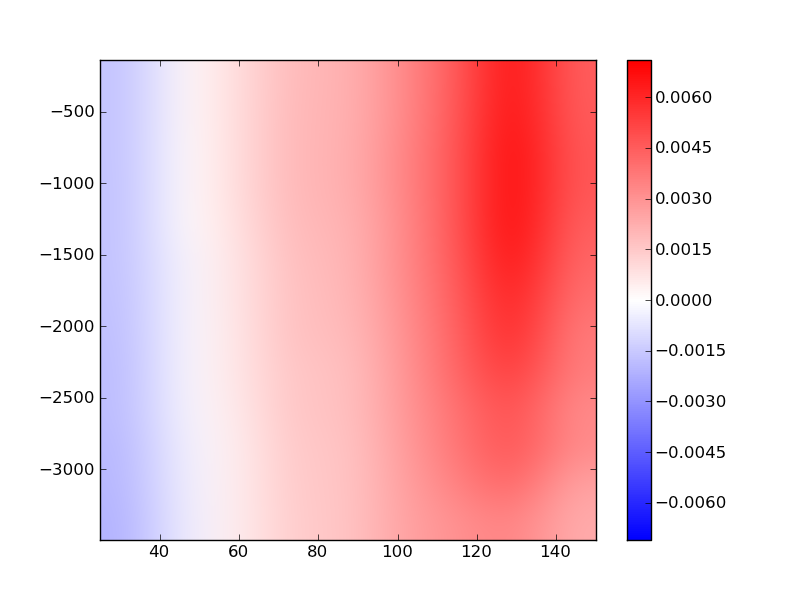
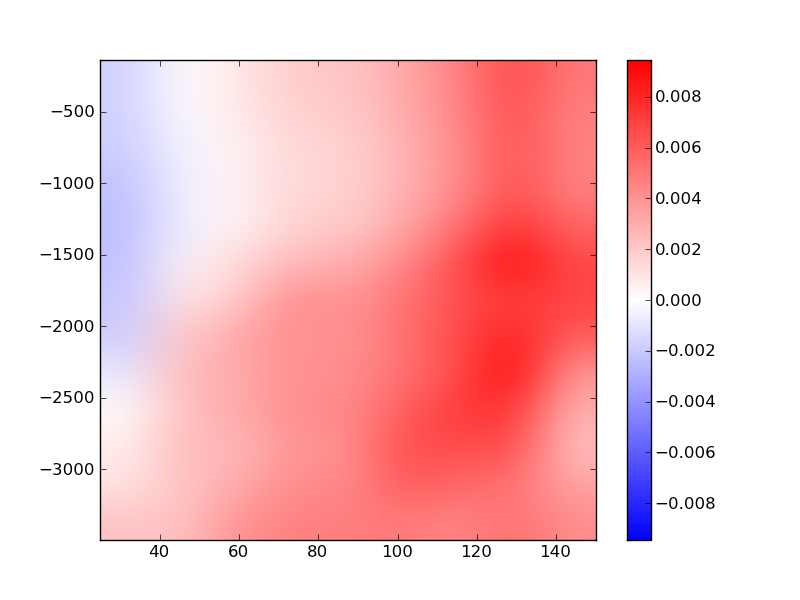
make plot_nbin script work without including truth

diff --git a/Scripts/plot_nbin.py b/Scripts/plot_nbin.py
@@ -3,13 +3,26 @@ import numpy as np
 import os
 import subprocess
 from scipy.optimize import curve_fit
+import sys
 
 def shear_model(x, m, a, c):
     # x should be 3 x N, where 0=gtrue, 1=epsf, 2=const
     return m*x[0,:] + a*x[1,:] + c*x[2,:]
     
+if len(sys.argv) != 1:
+    # This will be either 0 for False or 1 for True.
+    # So if 0 then it won't use a truth table, but you should fill in the true mean shear below.
+    # If 1 (or left blank) then it will use a truth table, given as a filename below.
+    use_truth = bool(int(sys.argv[1]))
+else:
+    use_truth = True
 
-truthfile = 'cgc-truthtable.txt'
+# Truth info: either a table, or mean shears across the field
+if use_truth:
+    truthfile = 'cgc-truthtable.txt'
+else:
+    true_mean_g1 = -0.00069750141117027025
+    true_mean_g2 = 0.002724380587579428
 
 n_bins = [25, 50, 60, 70, 75, 85, 100, 125, 150]
 percentile_vals = [0.5, 1., 2., 3., 4., 5., 6., 8., 10., 12., 14., 16., 20.]
@@ -23,18 +36,19 @@ mean_g1 = np.zeros((len(n_bins), len(percentile_vals)))
 mean_g2 = np.zeros((len(n_bins), len(percentile_vals)))
 sig_g1 = np.zeros((len(n_bins), len(percentile_vals)))
 sig_g2 = np.zeros((len(n_bins), len(percentile_vals)))
-m1 = np.zeros((len(n_bins), len(percentile_vals)))
-m2 = np.zeros((len(n_bins), len(percentile_vals)))
-sig_m1 = np.zeros((len(n_bins), len(percentile_vals)))
-sig_m2 = np.zeros((len(n_bins), len(percentile_vals)))
-a1 = np.zeros((len(n_bins), len(percentile_vals)))
-a2 = np.zeros((len(n_bins), len(percentile_vals)))
-sig_a1 = np.zeros((len(n_bins), len(percentile_vals)))
-sig_a2 = np.zeros((len(n_bins), len(percentile_vals)))
-c1 = np.zeros((len(n_bins), len(percentile_vals)))
-c2 = np.zeros((len(n_bins), len(percentile_vals)))
-sig_c1 = np.zeros((len(n_bins), len(percentile_vals)))
-sig_c2 = np.zeros((len(n_bins), len(percentile_vals)))
+if use_truth:
+    m1 = np.zeros((len(n_bins), len(percentile_vals)))
+    m2 = np.zeros((len(n_bins), len(percentile_vals)))
+    sig_m1 = np.zeros((len(n_bins), len(percentile_vals)))
+    sig_m2 = np.zeros((len(n_bins), len(percentile_vals)))
+    a1 = np.zeros((len(n_bins), len(percentile_vals)))
+    a2 = np.zeros((len(n_bins), len(percentile_vals)))
+    sig_a1 = np.zeros((len(n_bins), len(percentile_vals)))
+    sig_a2 = np.zeros((len(n_bins), len(percentile_vals)))
+    c1 = np.zeros((len(n_bins), len(percentile_vals)))
+    c2 = np.zeros((len(n_bins), len(percentile_vals)))
+    sig_c1 = np.zeros((len(n_bins), len(percentile_vals)))
+    sig_c2 = np.zeros((len(n_bins), len(percentile_vals)))
 
 for n_indx, n in enumerate(n_bins):
     # construct filename
@@ -70,13 +84,14 @@ for n_indx, n in enumerate(n_bins):
             logl_cutoffs.append(np.percentile(logl, perc))
 
     # read in truth table
-    dat = np.loadtxt(truthfile).transpose()
-    field_id_truth = dat[0,:]
-    g1_true = dat[1,:]
-    g2_true = dat[2,:]
+    if use_truth:
+        dat = np.loadtxt(truthfile).transpose()
+        field_id_truth = dat[0,:]
+        g1_true = dat[1,:]
+        g2_true = dat[2,:]
 
-    if not np.array_equal(field_id, field_id_truth):
-        raise RuntimeError('Subfield indices do not match!')
+        if not np.array_equal(field_id, field_id_truth):
+            raise RuntimeError('Subfield indices do not match!')
 
     for logl_indx, logl_cut in enumerate(logl_cutoffs):
         print "Log likelihood cutoff: ",logl_cut
@@ -84,15 +99,17 @@ for n_indx, n in enumerate(n_bins):
         use_g1_opt = g1_opt[to_save_1]
         use_g1_var = g1_var[to_save_1]
         use_psf_e1 = psf_e1[to_save_1]
-        use_g1_true = g1_true[to_save_1]
+        if use_truth:
+            use_g1_true = g1_true[to_save_1]
 
         to_save_2 = logl2 > logl_cut
         use_g2_opt = g2_opt[to_save_2]
         use_g2_var = g2_var[to_save_2]
         use_psf_e2 = psf_e2[to_save_2]
-        use_g2_true = g2_true[to_save_2]
+        if use_truth:
+            use_g2_true = g2_true[to_save_2]
 
-        print "Using ",len(use_g1_true),' and ',len(use_g2_true),' for g1 and g2'
+        print "Using ",len(use_g1_opt),' and ',len(use_g2_opt),' for g1 and g2'
 
         # compute and store <gamma>
         mean_g1[n_indx][logl_indx]=np.mean(use_g1_opt)
@@ -102,28 +119,29 @@ for n_indx, n in enumerate(n_bins):
         sig_g1[n_indx][logl_indx]=np.mean(np.sqrt(use_g1_var))
         sig_g2[n_indx][logl_indx]=np.mean(np.sqrt(use_g2_var))
 
-        # compute (roughly) and store m, a
-        # Our equation is g_obs - g_true = m*g_true + a*e_psf
-        # Our "A" matrix that lstsq wants should be like this:
-        A = np.column_stack([use_g1_true, use_psf_e1, np.ones_like(use_psf_e1)]).transpose()
-        # And the B vector is just the LHS
-        B = use_g1_opt - use_g1_true
-        ret_val, covar_1 = curve_fit(shear_model, A, B, sigma=np.sqrt(use_g1_var))
-        m1[n_indx][logl_indx]=ret_val[0]
-        a1[n_indx][logl_indx]=ret_val[1]
-        c1[n_indx][logl_indx]=ret_val[2]
-        sig_m1[n_indx][logl_indx]=np.sqrt(covar_1[0][0])
-        sig_a1[n_indx][logl_indx]=np.sqrt(covar_1[1][1])
-        sig_c1[n_indx][logl_indx]=np.sqrt(covar_1[2][2])
-        A = np.column_stack([use_g2_true, use_psf_e2, np.ones_like(use_psf_e2)]).transpose()
-        B = use_g2_opt - use_g2_true
-        ret_val, covar_2 = curve_fit(shear_model, A, B, sigma=np.sqrt(use_g2_var))
-        m2[n_indx][logl_indx]=ret_val[0]
-        a2[n_indx][logl_indx]=ret_val[1]
-        c2[n_indx][logl_indx]=ret_val[2]
-        sig_m2[n_indx][logl_indx]=np.sqrt(covar_2[0][0])
-        sig_a2[n_indx][logl_indx]=np.sqrt(covar_2[1][1])
-        sig_c2[n_indx][logl_indx]=np.sqrt(covar_2[2][2])
+        if use_truth:
+            # compute (roughly) and store m, a
+            # Our equation is g_obs - g_true = m*g_true + a*e_psf
+            # Our "A" matrix that lstsq wants should be like this:
+            A = np.column_stack([use_g1_true, use_psf_e1, np.ones_like(use_psf_e1)]).transpose()
+            # And the B vector is just the LHS
+            B = use_g1_opt - use_g1_true
+            ret_val, covar_1 = curve_fit(shear_model, A, B, sigma=np.sqrt(use_g1_var))
+            m1[n_indx][logl_indx]=ret_val[0]
+            a1[n_indx][logl_indx]=ret_val[1]
+            c1[n_indx][logl_indx]=ret_val[2]
+            sig_m1[n_indx][logl_indx]=np.sqrt(covar_1[0][0])
+            sig_a1[n_indx][logl_indx]=np.sqrt(covar_1[1][1])
+            sig_c1[n_indx][logl_indx]=np.sqrt(covar_1[2][2])
+            A = np.column_stack([use_g2_true, use_psf_e2, np.ones_like(use_psf_e2)]).transpose()
+            B = use_g2_opt - use_g2_true
+            ret_val, covar_2 = curve_fit(shear_model, A, B, sigma=np.sqrt(use_g2_var))
+            m2[n_indx][logl_indx]=ret_val[0]
+            a2[n_indx][logl_indx]=ret_val[1]
+            c2[n_indx][logl_indx]=ret_val[2]
+            sig_m2[n_indx][logl_indx]=np.sqrt(covar_2[0][0])
+            sig_a2[n_indx][logl_indx]=np.sqrt(covar_2[1][1])
+            sig_c2[n_indx][logl_indx]=np.sqrt(covar_2[2][2])
 
 if 0:
     # Plot m vs. n_bins
@@ -176,41 +194,57 @@ if 0:
     plt.savefig(outpref+mc_type+'.png')
 
 else:
-    # make 2d plot of <shear residual> vs. n, logL
-    fig = plt.figure()
-    vmax = max(np.max(c1), -np.min(c1))
-    plt.imshow(c1.transpose(), extent=(min(n_bins), max(n_bins), min(logl_cutoffs), max(logl_cutoffs)),
-               interpolation='bicubic', aspect='auto', vmin=-vmax, vmax=vmax, cmap=plt.cm.bwr)
-    plt.colorbar()
-    plt.savefig('mean_g1_2d.png')
-    fig = plt.figure()
-    plt.imshow(c2.transpose(), extent=(min(n_bins), max(n_bins), min(logl_cutoffs), max(logl_cutoffs)),
-               interpolation='bicubic', aspect='auto', vmin=-vmax, vmax=vmax, cmap=plt.cm.bwr)
-    plt.colorbar()
-    plt.savefig('mean_g2_2d.png')
+    if use_truth:
+        # make 2d plot of <shear residual> vs. n, logL
+        fig = plt.figure()
+        vmax = max(np.max(c1), -np.min(c1))
+        plt.imshow(c1.transpose(), extent=(min(n_bins), max(n_bins), min(logl_cutoffs), max(logl_cutoffs)),
+                   interpolation='bicubic', aspect='auto', vmin=-vmax, vmax=vmax, cmap=plt.cm.bwr)
+        plt.colorbar()
+        plt.savefig('mean_c1_2d.png')
+        fig = plt.figure()
+        plt.imshow(c2.transpose(), extent=(min(n_bins), max(n_bins), min(logl_cutoffs), max(logl_cutoffs)),
+                   interpolation='bicubic', aspect='auto', vmin=-vmax, vmax=vmax, cmap=plt.cm.bwr)
+        plt.colorbar()
+        plt.savefig('mean_c2_2d.png')
 
-    # make 2d plot of m vs. n, logL
-    fig = plt.figure()
-    vmax = max(np.max(m1), -np.min(m1))
-    plt.imshow(m1.transpose(), extent=(min(n_bins), max(n_bins), min(logl_cutoffs), max(logl_cutoffs)),
-               interpolation='bicubic', aspect='auto', vmin=-vmax, vmax=vmax, cmap=plt.cm.bwr)
-    plt.colorbar()
-    plt.savefig('mean_m1_2d.png')
-    fig = plt.figure()
-    plt.imshow(m2.transpose(), extent=(min(n_bins), max(n_bins), min(logl_cutoffs), max(logl_cutoffs)),
-               interpolation='bicubic', aspect='auto', vmin=-vmax, vmax=vmax, cmap=plt.cm.bwr)
-    plt.colorbar()
-    plt.savefig('mean_m2_2d.png')
+        # make 2d plot of m vs. n, logL
+        fig = plt.figure()
+        vmax = max(np.max(m1), -np.min(m1))
+        plt.imshow(m1.transpose(), extent=(min(n_bins), max(n_bins), min(logl_cutoffs), max(logl_cutoffs)),
+                   interpolation='bicubic', aspect='auto', vmin=-vmax, vmax=vmax, cmap=plt.cm.bwr)
+        plt.colorbar()
+        plt.savefig('mean_m1_2d.png')
+        fig = plt.figure()
+        plt.imshow(m2.transpose(), extent=(min(n_bins), max(n_bins), min(logl_cutoffs), max(logl_cutoffs)),
+                   interpolation='bicubic', aspect='auto', vmin=-vmax, vmax=vmax, cmap=plt.cm.bwr)
+        plt.colorbar()
+        plt.savefig('mean_m2_2d.png')
 
-    # make 2d plot of a vs. n, logL
-    fig = plt.figure()
-    vmax = max(np.max(m1), -np.min(m1))
-    plt.imshow(a1.transpose(), extent=(min(n_bins), max(n_bins), min(logl_cutoffs), max(logl_cutoffs)),
-               interpolation='bicubic', aspect='auto', vmin=-vmax, vmax=vmax, cmap=plt.cm.bwr)
-    plt.colorbar()
-    plt.savefig('mean_a1_2d.png')
-    fig = plt.figure()
-    plt.imshow(a2.transpose(), extent=(min(n_bins), max(n_bins), min(logl_cutoffs), max(logl_cutoffs)),
-               interpolation='bicubic', aspect='auto', vmin=-vmax, vmax=vmax, cmap=plt.cm.bwr)
-    plt.colorbar()
-    plt.savefig('mean_a2_2d.png')
+        # make 2d plot of a vs. n, logL
+        fig = plt.figure()
+        vmax = max(np.max(m1), -np.min(m1))
+        plt.imshow(a1.transpose(), extent=(min(n_bins), max(n_bins), min(logl_cutoffs), max(logl_cutoffs)),
+                   interpolation='bicubic', aspect='auto', vmin=-vmax, vmax=vmax, cmap=plt.cm.bwr)
+        plt.colorbar()
+        plt.savefig('mean_a1_2d.png')
+        fig = plt.figure()
+        plt.imshow(a2.transpose(), extent=(min(n_bins), max(n_bins), min(logl_cutoffs), max(logl_cutoffs)),
+                   interpolation='bicubic', aspect='auto', vmin=-vmax, vmax=vmax, cmap=plt.cm.bwr)
+        plt.colorbar()
+        plt.savefig('mean_a2_2d.png')
+    else:
+        # just make plot of shear residual vs. n, logL
+        mean_g1 -= true_mean_g1
+        mean_g2 -= true_mean_g2
+        fig = plt.figure()
+        vmax = max(np.max(mean_g1), -np.min(mean_g1))
+        plt.imshow(mean_g1.transpose(), extent=(min(n_bins), max(n_bins), min(logl_cutoffs), max(logl_cutoffs)),
+                   interpolation='bicubic', aspect='auto', vmin=-vmax, vmax=vmax, cmap=plt.cm.bwr)
+        plt.colorbar()
+        plt.savefig('mean_g1_2d.png')
+        fig = plt.figure()
+        plt.imshow(mean_g2.transpose(), extent=(min(n_bins), max(n_bins), min(logl_cutoffs), max(logl_cutoffs)),
+                   interpolation='bicubic', aspect='auto', vmin=-vmax, vmax=vmax, cmap=plt.cm.bwr)
+        plt.colorbar()
+        plt.savefig('mean_g2_2d.png')
